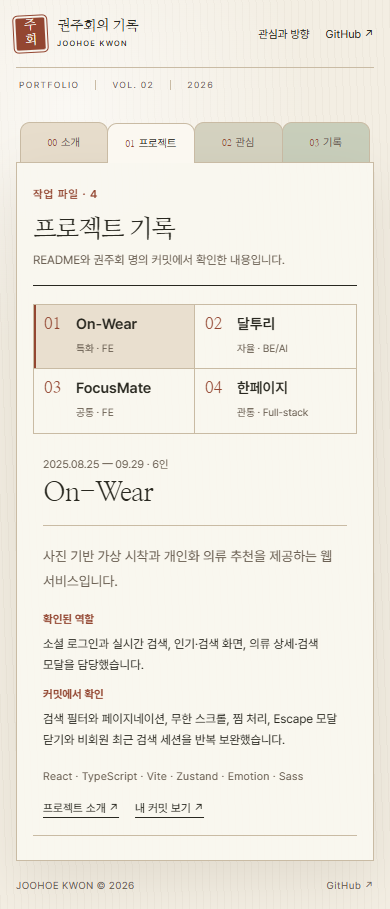
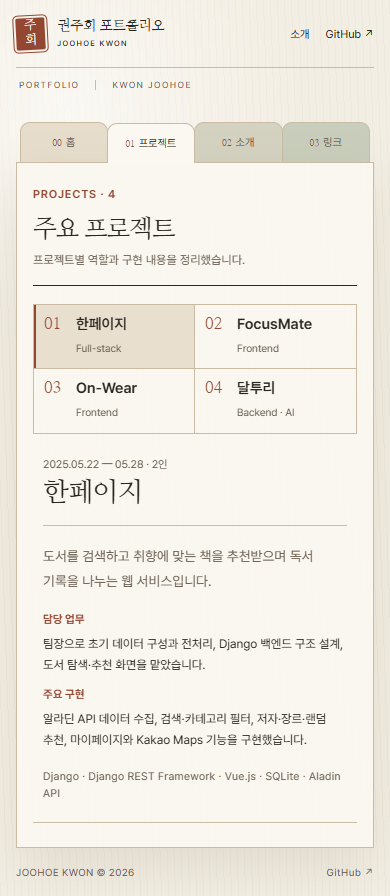
docs(t01): 콘텐츠 수정 기준과 반응형 검증 갱신

diff --git a/design.md b/design.md
@@ -33,10 +33,13 @@
 일반 텍스트4.5:1, 큰 텍스트3:1 이상을 실제 렌더링 색상으로 확인한다. 경계선은 텍스트 대체가 아니다.
 
 ## 구성과 이미지
-- 최상위 `소개·프로젝트·관심·기록`은 ARIA 탭으로 구성하며 한 번에 한 패널만 보여 준다. URL 해시로 각 패널을 바로 열 수 있다.
+- 최상위 `홈·프로젝트·소개·링크`는 ARIA 탭으로 구성하며 한 번에 한 패널만 보여 준다. URL 해시로 각 패널을 바로 열 수 있다.
 - 소개 패널은 좌측 자기소개와 우측 두 폴라로이드를 유지한다. 1366×768 및 1920×1080에서는 전체 포트폴리오가 한 화면 안에서 기록철처럼 보인다.
-- 프로젝트 패널 안에는 `On-Wear·달투리·FocusMate·한페이지` 선택 탭을 두고, 선택한 프로젝트의 역할·커밋 근거·기술·저장소 링크만 교체한다.
-- 프로젝트 명칭은 사용자가 확인한 이름을 따른다. `BookVerse` 표기를 `한페이지`로 고치고, 공통 프로젝트는 `FocusMate`로 연결한다.
+- 프로젝트 패널은 날짜 순서인 `한페이지·FocusMate·On-Wear·달투리`로 고정하고, 선택한 프로젝트의 기간·역할·서비스·담당 업무·주요 구현·기술을 같은 형식으로 교체한다.
+- 프로젝트 명칭은 사용자가 확인한 이름을 따른다. `BookVerse` 표기를 `한페이지`로 고치고, 외부 독자가 알기 어려운 SSAFY 단계명은 쓰지 않는다.
+- 한페이지는 유효한 공개 경로가 확인되기 전까지 링크를 표시하지 않는다. 나머지는 커밋 필터 주소 대신 실제 코드 저장소의 기본 경로로 연결한다.
+- 내부 검증 문구인 `확인된 역할`, `커밋에서 확인`을 사용자 화면에 노출하지 않는다. 화면에서는 `담당 업무`, `주요 구현`으로 쓴다.
+- 계절에 종속되는 소개 문장과 불필요한 버전 번호를 쓰지 않는다. 이미지는 분위기 요소로만 남긴다.
 - 사용자 참고 이미지의 파일철 구조, 넓은 여백, 종이색의 미묘한 차이와 얇은 먹선을 차용한다. 원본의 로고·QR·문구는 복제하지 않는다.
 - 모바일에서는 활성 패널의 내용만 세로로 이어지고, 프로젝트 선택 탭은 2열로 정리한다.
 - 사진: 한옥 마당의 단풍, 한옥 창가의 책·찻잔·은행잎. ImageGen으로 이번 프로젝트를 위해 생성한 분위기 이미지2개다. 본인의 실제 촬영 사진이나 여행·독서 실적을 뜻하지 않는다.
@@ -55,7 +58,7 @@
 ## 프로젝트 사실 기준
 - On-Wear: 조직 README의 FE 역할과 `On-Wear-FE` develop 브랜치의 rnjswnghl 커밋을 사용한다.
 - 달투리: e101 README의 BE·AI 역할과 master 브랜치의 rnjswnghl 커밋을 사용한다.
-- FocusMate: `focusmate` 통합 저장본, `rnjswnghl--gongtong_frontend`의 프론트엔드 README·커밋을 함께 사용한다.
+- FocusMate: `rnjswnghl--gongtong_frontend`의 프론트엔드 README·커밋을 사용하고 해당 코드 저장소로 직접 연결한다.
 - 한페이지: `09-pjt` README와 master 브랜치 커밋을 사용한다. 저장소의 예전 프로젝트명 대신 사용자가 확인한 공개 명칭 `한페이지`를 쓴다.
 - 팀 전체 기능과 개인 기여를 구분하고, 확인되지 않은 수치·성과·담당 범위는 추가하지 않는다.
 

diff --git a/docs/T01-log.md b/docs/T01-log.md
@@ -75,3 +75,9 @@
 - 긴 슬라이드형 페이지를 최상위 파일 탭과 프로젝트 선택 탭이 실제 콘텐츠를 교체하는 구조로 변경했다.
 - UI 문구는 README의 역할 설명과 rnjswnghl 계정의 커밋에서 확인한 작업에 한정했다.
 - 1366×768, 1920×1080, 390×844, 320×700의 탭 전환·키보드 이동·해시 접근·리소스 로딩·가로 넘침·무스크립트 읽기를 검사했다. 오류와 실패 요청은 0이었다.
+
+## 2026-09-14 · 채용 관점의 콘텐츠 수정
+- 소개 문장에서 계절 표현과 버전 번호를 제거하고 지원 분야와 구현 경험을 먼저 배치했다.
+- 네 프로젝트를 날짜 순서로 재배치하고 기간, 역할, 서비스 설명, 담당 업무, 주요 구현, 기술 스택 형식을 통일했다.
+- `확인된 역할`, `커밋에서 확인`, SSAFY 단계명처럼 제작자 관점의 문구를 사용자 화면에서 삭제했다.
+- 한페이지 링크는 제거했다. FocusMate, On-Wear, 달투리는 로컬 clone의 origin과 일치하는 실제 저장소 기본 경로로 수정했다.
